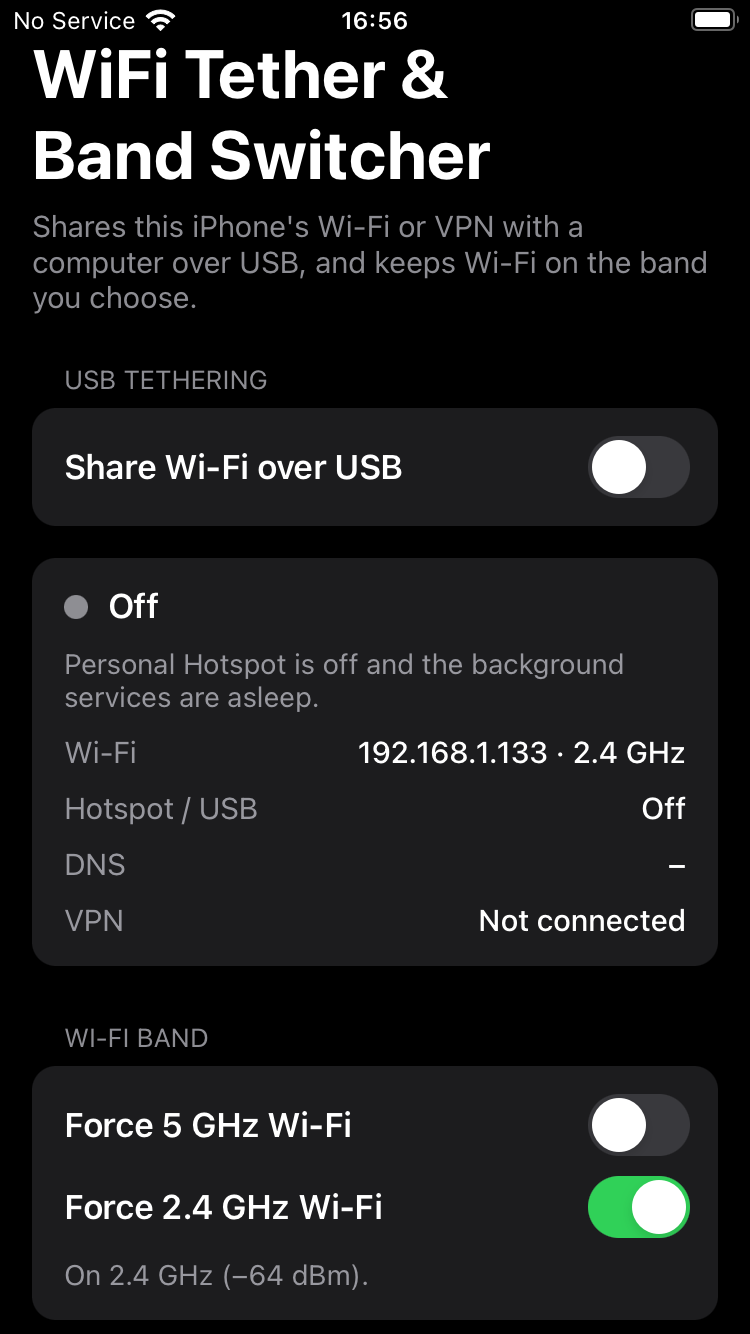
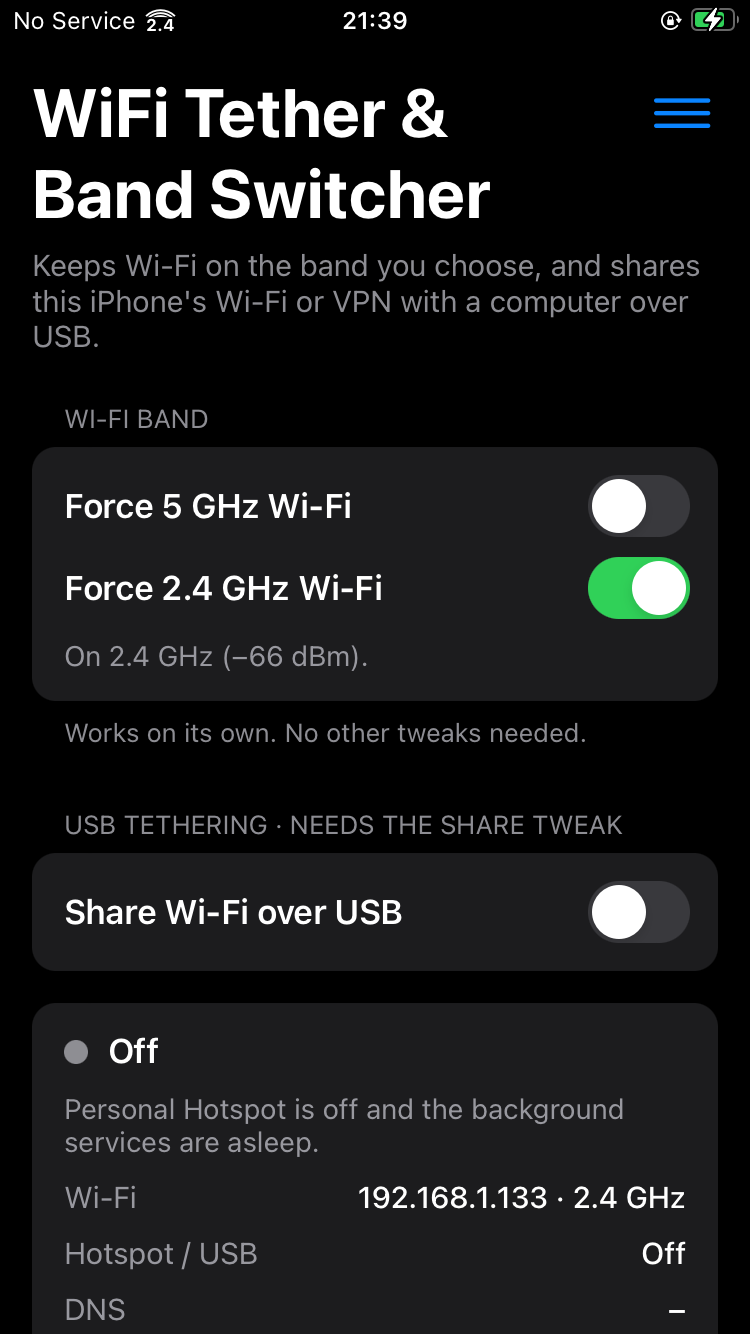
Add files via upload

diff --git a/make-depiction.py b/make-depiction.py
@@ -3,10 +3,15 @@
 CHANGELOG.md, in two forms:
   depiction.json - Sileo's own format (Details and Changelog tabs)
   depiction.html - a web page, for package managers that don't read Sileo's format
-Both go next to the file named on the command line (default repo/depiction.json)."""
+Both go next to the file named on the command line (default repo/depiction.json), in the
+package's folder in the repo, whose web address is the second argument (for the
+screenshots, which Sileo wants as full addresses)."""
 import html, json, os, re, sys
 
 out = sys.argv[1] if len(sys.argv) > 1 else "repo/depiction.json"
+base = sys.argv[2] if len(sys.argv) > 2 else "https://scog3.github.io/repo/packages/com.wifitether/"
+if not base.endswith("/"):
+    base += "/"
 text = open("CHANGELOG.md", encoding="utf-8").read()
 
 # "## 0.4.3" sections, newest first
@@ -17,12 +22,12 @@ def md(s):
     # Sileo's markdown wants list items on one line
     return re.sub(r"\n(?!\s*[-*] |\n)\s+", " ", s)
 
-# Where the repo is published (from the control file), for the screenshots
-base = re.search(r"^SileoDepiction: *(\S+/)depiction\.json",
-                 open("packaging/control", encoding="utf-8").read(), re.M).group(1)
-screenshots = [("screenshots/tethering-5ghz.png", "Sharing Wi-Fi over USB with Force 5 GHz on"),
-               ("screenshots/tethering-vpn.png", "Sharing the iPhone's VPN over USB"),
-               ("screenshots/band-switch.png", "Force 2.4 GHz on its own, with sharing off")]
+# Left to right; any that aren't in screenshots/ yet are left out.
+screenshots = [(p, t) for p, t in [
+    ("screenshots/welcome.png", "The welcome screen: the band on the Wi-Fi icon and the status notification"),
+    ("screenshots/tethering.png", "Sharing Wi-Fi and the VPN over USB, with Force 5 GHz on"),
+    ("screenshots/band-switch.png", "Force 2.4 GHz on its own, with sharing off"),
+] if os.path.exists(p)]
 
 details = (
     "**USB tethering, plus a Wi-Fi band switcher.** Plug your iPhone or iPad into a computer and the "
@@ -44,8 +49,9 @@ details = (
     "Works on its own, without tethering or Share. Moving back is near-instant, with no "
     "disconnect, on iPhone X and older (A11 chip or older, iPads too). On newer devices that's new "
     "and untested; if it doesn't work there, Wi-Fi drops for about half a second each time.\n"
-    "- **See it at a glance.** The band shows as a small 5 or 2.4 on the Wi-Fi icon in every app "
-    "(respring once after installing), and an optional quiet notification says what's on.\n"
+    "- **See it at a glance.** The Wi-Fi icon shows the band (2.4, 5 or 6 under its signal arcs) "
+    "in every app, iOS's Personal Hotspot indicator shows while a computer is connected, and a quiet "
+    "notification says what's on. Respring once after installing.\n"
     "- **No battery drain when it's off.**\n"
     "- **Free and open source** (MIT).\n\n"
     "USB tethering needs the **Share** tweak (the app has a button that adds its repo in Sileo); "

diff --git a/src/daemon/main.m b/src/daemon/main.m
@@ -2613,26 +2613,30 @@ static NSString *indBandName(int band)
     return band == 2 ? @"2.4 GHz" : band == 5 ? @"5 GHz" : band == 6 ? @"6 GHz" : nil;
 }
 
+static long long g_misHosts;   /* devices iOS's hotspot service counts as connected (misLog) */
+
 /* What the notification says. The band Wi-Fi is on now as the title, then
- * the same three short lines every time (only ON/OFF or the band changes):
+ * the same three short lines every time:
  *   Wi-Fi band: 5 GHz
- *   USB sharing: ON
- *   VPN pass-through: OFF
+ *   USB sharing: ON (connected)
+ *   VPN pass-through: ON (not connected)
  *   Force band: 5 GHz
- * VPN pass-through is ON while a VPN is connected and USB sharing is on (the
- * computer's traffic goes through the VPN). Shown whenever the notification
- * is switched on. */
+ * USB sharing and VPN pass-through are ON or OFF with the Share Wi-Fi over USB
+ * switch (the VPN goes through whenever sharing is on); while ON, the
+ * brackets say whether a computer is connected (iOS's hotspot service counts
+ * it, as for its Personal Hotspot indicator) and whether a VPN is connected.
+ * Shown whenever the notification is switched on. */
 static NSDictionary *indSummaryNow(void)
 {
     int sharing = g_lastEnabled == 1;
     NSString *band = indBandName(g_indBand);
     NSString *force = !g_b5Running ? @"OFF" : g_b5Want == 2 ? @"2.4 GHz" : @"5 GHz";
+    NSString *usb = !sharing ? @"OFF" : g_misHosts > 0 ? @"ON (connected)" : @"ON (not connected)";
+    NSString *vpn = !sharing ? @"OFF" : (g_indVpn || g_indVpnShared) ? @"ON (connected)" : @"ON (not connected)";
     return @{ @"show": @YES,
               @"title": band ? [@"Wi-Fi band: " stringByAppendingString:band] : @"Wi-Fi: not connected",
               @"body": [NSString stringWithFormat:@"USB sharing: %@\nVPN pass-through: %@\nForce band: %@",
-                                                  sharing ? @"ON" : @"OFF",
-                                                  (g_indVpnShared || (g_indVpn && sharing)) ? @"ON" : @"OFF",
-                                                  force] };
+                                                  usb, vpn, force] };
 }
 
 /* After anything that can change the summary: write it, and if it stays
@@ -2777,6 +2781,8 @@ static void misLog(void)
 {
     static NSString *last;
     NSDictionary *d = scValue(@"com.apple.MobileInternetSharing");
+    id hosts = [d[@"Hosts"] isKindOfClass:[NSDictionary class]] ? d[@"Hosts"][@"Current"] : nil;
+    g_misHosts = [hosts respondsToSelector:@selector(longLongValue)] ? [hosts longLongValue] : 0;
     NSString *s = @"nothing";
     if (d && [NSJSONSerialization isValidJSONObject:d]) {
         NSData *j = [NSJSONSerialization dataWithJSONObject:d options:NSJSONWritingSortedKeys error:nil];

diff --git a/src/bar/hotspot.m b/src/bar/hotspot.m
@@ -1,5 +1,5 @@
 /*
- * iOS's blue "Personal Hotspot" indicator (included by bar.m; SpringBoard
+ * iOS's "Personal Hotspot" indicator (included by bar.m; SpringBoard
  * only).
  *
  * SpringBoard shows the indicator from its telephony manager's tethering
@@ -117,10 +117,10 @@ static void wtHotspotApply(NSString *why)
                                   : ((long long (*)(id, SEL))objc_msgSend)(tm, num);
     }
     Ivar iv = agg ? class_getInstanceVariable(object_getClass(agg), "_tetheringStatusBarStyleOverrideAssertion") : NULL;
-    NSString *blue = iv ? (object_getIvar(agg, iv) ? @"on" : @"off") : @"unknown";
+    NSString *shown = iv ? (object_getIvar(agg, iv) ? @"on" : @"off") : @"unknown";
     wtSBLog(@"%@: hotspot counts %lld; cellular service says %s (%lld); SpringBoard now: tethering %d, %lld "
-            @"device(s), blue indicator %@", why, g_hsCount, g_ctTether ? "tethering" : "not tethering",
-            g_ctCount, nowT, nowN, blue);
+            @"device(s), hotspot indicator %@", why, g_hsCount, g_ctTether ? "tethering" : "not tethering",
+            g_ctCount, nowT, nowN, shown);
 }
 
 static void wtHotspotStart(void)
@@ -141,7 +141,7 @@ static void wtHotspotStart(void)
         method_getArgumentType(m, 3, b, sizeof(b));
     }
     if (!(ret[0] == 'v' && strchr("Bc", a[0]) && a[0] && strchr("iIqQlL", b[0]) && b[0])) {
-        wtSBLog(@"blue hotspot indicator: SBTelephonyManager's tethering setter isn't here as expected "
+        wtSBLog(@"hotspot indicator: SBTelephonyManager's tethering setter isn't here as expected "
                 @"(%s); leaving it alone", m ? method_getTypeEncoding(m) : "missing");
         return;
     }
@@ -164,7 +164,7 @@ static void wtHotspotStart(void)
         return;
     notify_get_state(tok, &st);
     g_hsCount = (long long)st;
-    wtSBLog(@"blue hotspot indicator: ready (%s); hotspot counts %lld", method_getTypeEncoding(m), g_hsCount);
+    wtSBLog(@"hotspot indicator: ready (%s); hotspot counts %lld", method_getTypeEncoding(m), g_hsCount);
     if (g_hsCount > 0)   /* already connected (a respring while sharing) */
         dispatch_after(dispatch_time(DISPATCH_TIME_NOW, 3 * NSEC_PER_SEC), dispatch_get_main_queue(), ^{
             @try {

diff --git a/src/app/main.m b/src/app/main.m
@@ -363,7 +363,7 @@ static NSString *logText(void)
     if (vpn.length)
         [t appendFormat:@"===== vpn.log (end) =====\n%@\n",
                         vpn.length > 100000 ? [vpn substringFromIndex:vpn.length - 100000] : vpn];
-    /* The status bar add-on in SpringBoard: the blue hotspot indicator. */
+    /* The status bar add-on in SpringBoard: the Personal Hotspot indicator. */
     for (NSString *name in @[@"springboard.log.old", @"springboard.log"]) {
         NSString *s = readText([WT_DIR stringByAppendingPathComponent:name]);
         if (s.length)
@@ -727,7 +727,7 @@ static UIView *wtNotificationPreview(void)
     UILabel *title = wtLabel(15, UIFontWeightSemibold, UIColor.labelColor);
     title.text = @"Wi-Fi band: 5 GHz";
     UILabel *body = wtLabel(15, UIFontWeightRegular, UIColor.labelColor);
-    body.text = @"USB sharing: ON\nVPN pass-through: OFF\nForce band: 5 GHz";
+    body.text = @"USB sharing: ON (connected)\nVPN pass-through: ON (connected)\nForce band: 5 GHz";
     UIStackView *s = [[UIStackView alloc] initWithArrangedSubviews:@[head, title, body]];
     s.axis = UILayoutConstraintAxisVertical;
     s.spacing = 1;

diff --git a/src/bar/bar.m b/src/bar/bar.m
@@ -20,7 +20,7 @@
  *     layout instead.
  * Not on Wi-Fi, band unknown, or switched off in the app: iOS's own icon.
  *
- * In SpringBoard it also makes iOS's own blue "Personal Hotspot" indicator
+ * In SpringBoard it also makes iOS's own "Personal Hotspot" indicator
  * show while the computer is connected (hotspot.m).
  *
  * The band comes from wifitetherd, on the Darwin notification
@@ -244,7 +244,7 @@ static void wtSetState(uint64_t st)
     }
 }
 
-/* iOS's blue "Personal Hotspot" indicator while the computer is connected
+/* iOS's "Personal Hotspot" indicator while the computer is connected
  * (SpringBoard only; see hotspot.m). */
 #include "hotspot.m"
 

diff --git a/README.md b/README.md
@@ -13,8 +13,8 @@ things in one app, called **Tether & Band** on the home screen:
 Each works on its own: use one, the other or both.
 
 <p align="center">
-  <img src="screenshots/tethering-5ghz.png" width="30%" alt="Sharing Wi-Fi over USB with Force 5 GHz on">
-  <img src="screenshots/tethering-vpn.png" width="30%" alt="Sharing the iPhone's VPN over USB">
+  <img src="screenshots/welcome.png" width="30%" alt="The welcome screen: the band on the Wi-Fi icon and the status notification, each with a switch">
+  <img src="screenshots/tethering.png" width="30%" alt="Sharing Wi-Fi and the VPN over USB, with Force 5 GHz on, the band on the Wi-Fi icon and iOS's Personal Hotspot indicator">
   <img src="screenshots/band-switch.png" width="30%" alt="Force 2.4 GHz on its own, with sharing off">
 </p>
 
@@ -54,11 +54,11 @@ like a captive portal you've already signed in to on the phone.
   signal over **2.4**, **5** or **6**, in every app: the band it's actually on, whatever
   the switches say. Same colour and size as iOS's icon. On by default; switch it off in
   Settings.
-- **Blue Personal Hotspot indicator.** iOS's own, while the computer is connected, as when
-  sharing mobile data.
+- **Personal Hotspot indicator.** iOS's own coloured status bar with the link icon, while
+  the computer is connected, as when sharing mobile data.
 - **Status notification.** A quiet notification in Notification Centre. The title is the
-  band Wi-Fi is on now (*Wi-Fi band: 5 GHz*), then *USB sharing: ON*, *VPN pass-through:
-  OFF* and *Force band: 5 GHz* (or OFF). No sound or banner, and it updates by itself. On
+  band Wi-Fi is on now (*Wi-Fi band: 5 GHz*), then *USB sharing: ON (connected)*, *VPN
+  pass-through: ON (not connected)* and *Force band: 5 GHz* (or OFF). No sound or banner, and it updates by itself. On
   by default.
 
 The first time you open the app, a welcome screen shows both with a preview and a switch
@@ -93,8 +93,10 @@ The band switcher needs nothing else.
 
 **From Sileo (recommended):**
 
-1. In Sileo, add the source `https://scog3.github.io/iOS-WiFi-tether/`
-   (or open that page on the device and tap **Add to Sileo**).
+1. In Sileo, add the source `https://scog3.github.io/repo/`
+   (or open that page on the device and tap **Add to Sileo**). It's my repo for all my
+   projects. If you added the old `https://scog3.github.io/iOS-WiFi-tether/` source,
+   remove it: it doesn't get updates any more.
 2. Install **WiFi Tether & Band Switcher**. It shows up on the home screen as
    **Tether & Band**. Installing restarts iOS's Wi-Fi service, so Wi-Fi drops for a few
    seconds.
@@ -345,7 +347,7 @@ root) fills that gap whenever sharing is on:
    `applyStyleAttributes:` (colours) and `setNumberOfActiveBars:` (signal), which still
    run as before. If that view isn't there on some iOS version, it does nothing. `wifitetherd` publishes the band on the Darwin notification
    `com.wifitether.band`, so switching it off in Settings takes it away everywhere at once.
-   In SpringBoard the same add-on makes iOS's blue Personal Hotspot indicator show
+   In SpringBoard the same add-on makes iOS's Personal Hotspot indicator show
    (`src/bar/hotspot.m`). SpringBoard takes the tethering state from the cellular
    service (`-[SBTelephonyManager _setIsNetworkTethering:withNumberOfDevices:]`), which
    never says it's tethering when the hotspot shares Wi-Fi. `wifitetherd` posts the
@@ -365,12 +367,32 @@ Everything is removed again when you turn sharing off or uninstall.
 
 ## Build it yourself
 
-Every push to this repository builds the `.deb` on GitHub Actions (Ubuntu), publishes the
-Sileo repo with GitHub Pages (`make-repo.sh`; needs **Settings → Pages → Source: GitHub
-Actions**), and publishes the `.deb` as a release called *Tether & Band* with the version
-in `VERSION` and that version's notes from [CHANGELOG.md](CHANGELOG.md). Building the same
-version again replaces its `.deb`; bump `VERSION` and add a changelog entry to make a new
-release.
+Every push to this repository builds the `.deb` on GitHub Actions (Ubuntu), publishes it
+as a release called *Tether & Band* with the version in `VERSION` and that version's notes
+from [CHANGELOG.md](CHANGELOG.md), and adds it to the Sileo repo. Building the same version
+again replaces its `.deb`; bump `VERSION` and add a changelog entry to make a new release.
+
+The Sileo repo is a separate GitHub repository, one for all my projects
+(`REPO_REPOSITORY` and `REPO_URL` at the top of `.github/workflows/build.yml`). Each build
+runs `make-repo.sh` on a copy of it: that replaces this package's `.deb` (other packages
+are left alone), writes its pages under `packages/com.wifitether/`, rebuilds `Packages`,
+`Release` and the home page from every package in it, and pushes it back. Setting it up,
+once:
+
+1. Create a public repository called `repo`, with **Add a README file** ticked.
+2. In it, **Settings → Pages**: **Deploy from a branch**, branch **main**, folder **/ (root)**.
+   It's then at `https://<user>.github.io/repo/`.
+3. Make a token that can write to it: **Settings → Developer settings → Personal access
+   tokens → Fine-grained tokens → Generate new token**, **Only select repositories** →
+   `repo`, **Permissions → Contents: Read and write**.
+4. In this repository, **Settings → Secrets and variables → Actions → New repository
+   secret**: name `REPO_TOKEN`, value the token.
+
+Without the secret, the release still goes out and the run's summary says the repo wasn't
+updated. The repo's icon is `CydiaIcon.png` in it: the first build puts this app's icon
+there, and it's never replaced, so you can swap in your own. Another project can publish
+to the same repo with a copy of `make-repo.sh` (change its "This package" part) and the
+same workflow step.
 
 The hand-over add-on's arm64e part is built with Apple's compiler on a GitHub Mac runner
 (the `roam` job), because the open-source compiler on Linux can't make a proper arm64e

diff --git a/CHANGELOG.md b/CHANGELOG.md
@@ -9,14 +9,20 @@
   icon's own colour and fits in the same space, so it looks at home on any status bar and
   any iPhone. It shows the band Wi-Fi is actually on, not what the switches are set to. On
   by default. Respring once after installing for it to appear.
-- **iOS's blue Personal Hotspot indicator** now shows while the computer is connected, as
-  it does when sharing mobile data. iOS only takes it from the phone's cellular service,
-  which never says it's sharing when the hotspot shares Wi-Fi. Respring once after
-  installing.
+- **iOS's Personal Hotspot indicator** (the coloured status bar with the link icon) now
+  shows while the computer is connected, as it does when sharing mobile data. iOS only
+  takes it from the phone's cellular service, which never says it's sharing when the
+  hotspot shares Wi-Fi. Respring once after installing.
 - **Status notification** (on by default): one quiet notification in Notification Centre. The
   title is the band Wi-Fi is on now (*Wi-Fi band: 5 GHz*), then three short lines: *USB
-  sharing: ON*, *VPN pass-through: OFF*, *Force band: 5 GHz*. Always the same lines, so
-  nothing jumps around. No sound or banner; it updates by itself.
+  sharing: ON (connected)*, *VPN pass-through: ON (not connected)*, *Force band: 5 GHz*.
+  USB sharing and VPN pass-through follow the Share Wi-Fi over USB switch; the brackets say
+  whether a computer, and a VPN, is connected. Always the same lines, so nothing jumps
+  around. No sound or banner; it updates by itself.
+
+**New Sileo source:** `https://scog3.github.io/repo/`, my repo for all my projects. If you
+added the old `https://scog3.github.io/iOS-WiFi-tether/` source, remove it and add the new
+one: the old one doesn't get updates any more.
 
 **App**
 
